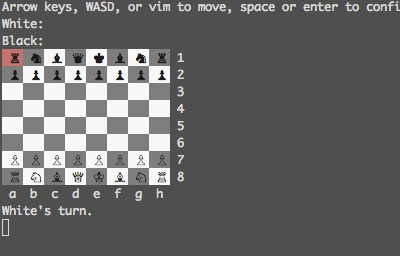
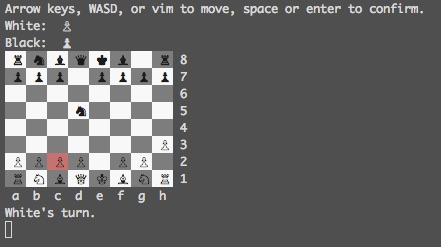
changes board grid numbers to be accurate

Changed region(s): [[0.0, 0.0, 1.0, 0.9636]]

diff --git a/logic/display.rb b/logic/display.rb
@@ -44,7 +44,7 @@ class Display
     puts "Arrow keys, WASD, or vim to move, space or enter to confirm."
     puts "White: " + @board.white_graveyard.join("")
     puts "Black: " + @board.black_graveyard.join("")
-    side_grid = %w[1 2 3 4 5 6 7 8].to_a
+    side_grid = %w[8 7 6 5 4 3 2 1].to_a
     current_grid = build_grid
 
     current_grid.each_with_index { |row,i| puts row.join + " " + side_grid[i] }
